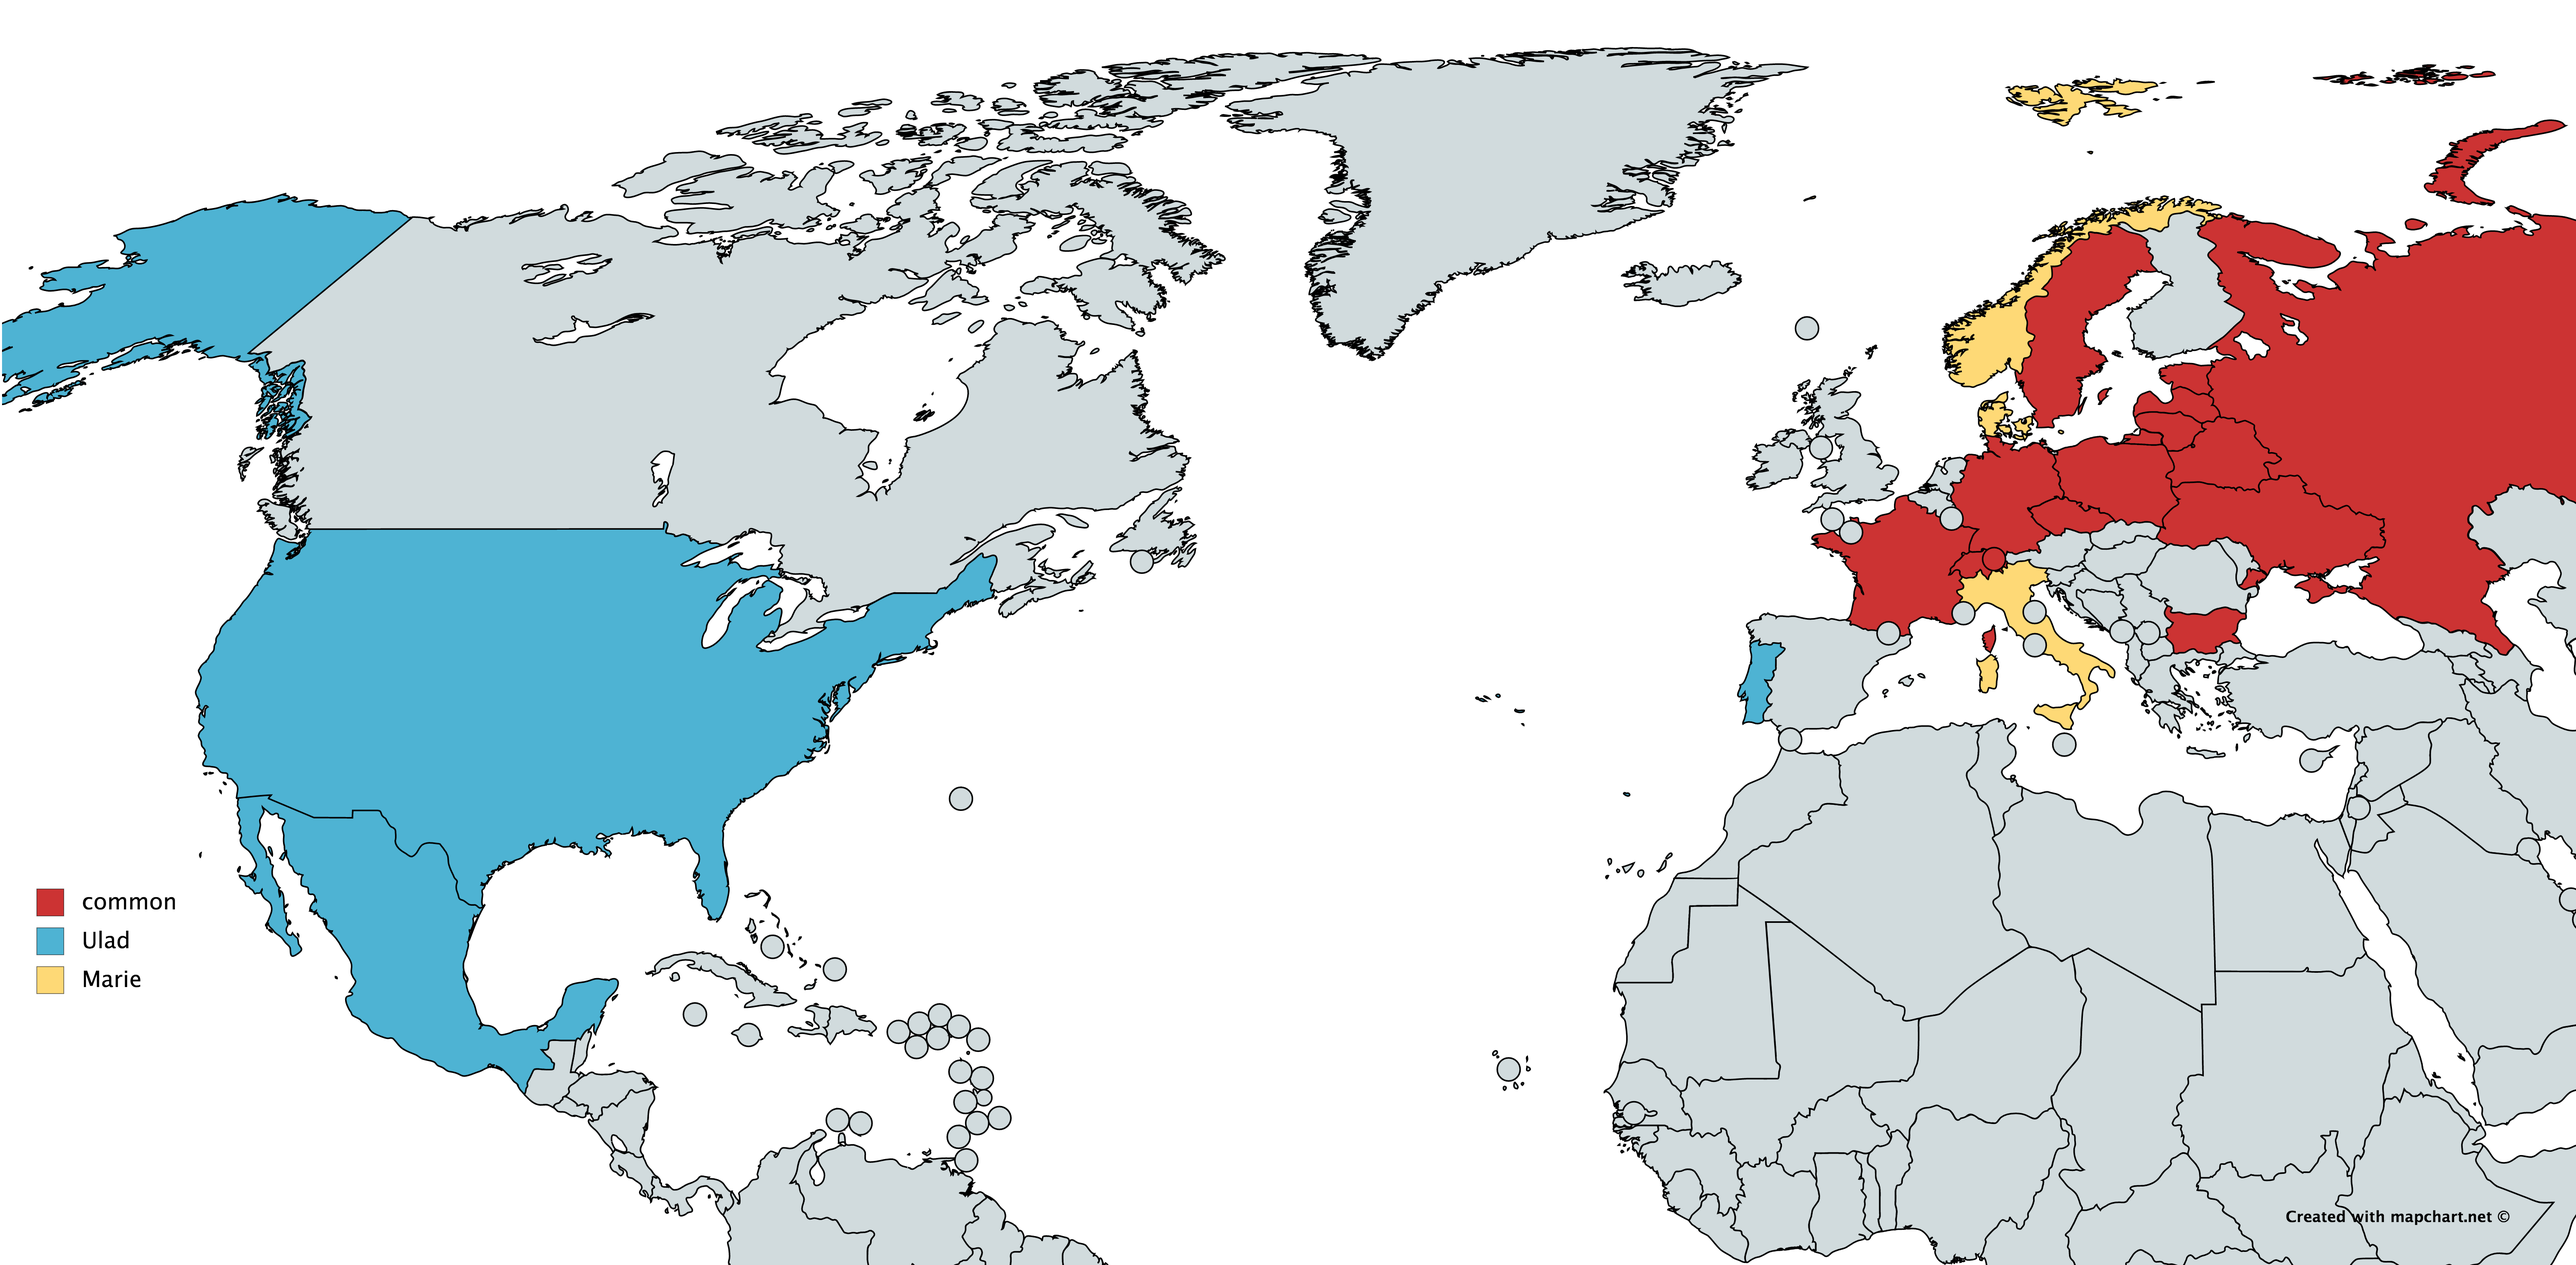
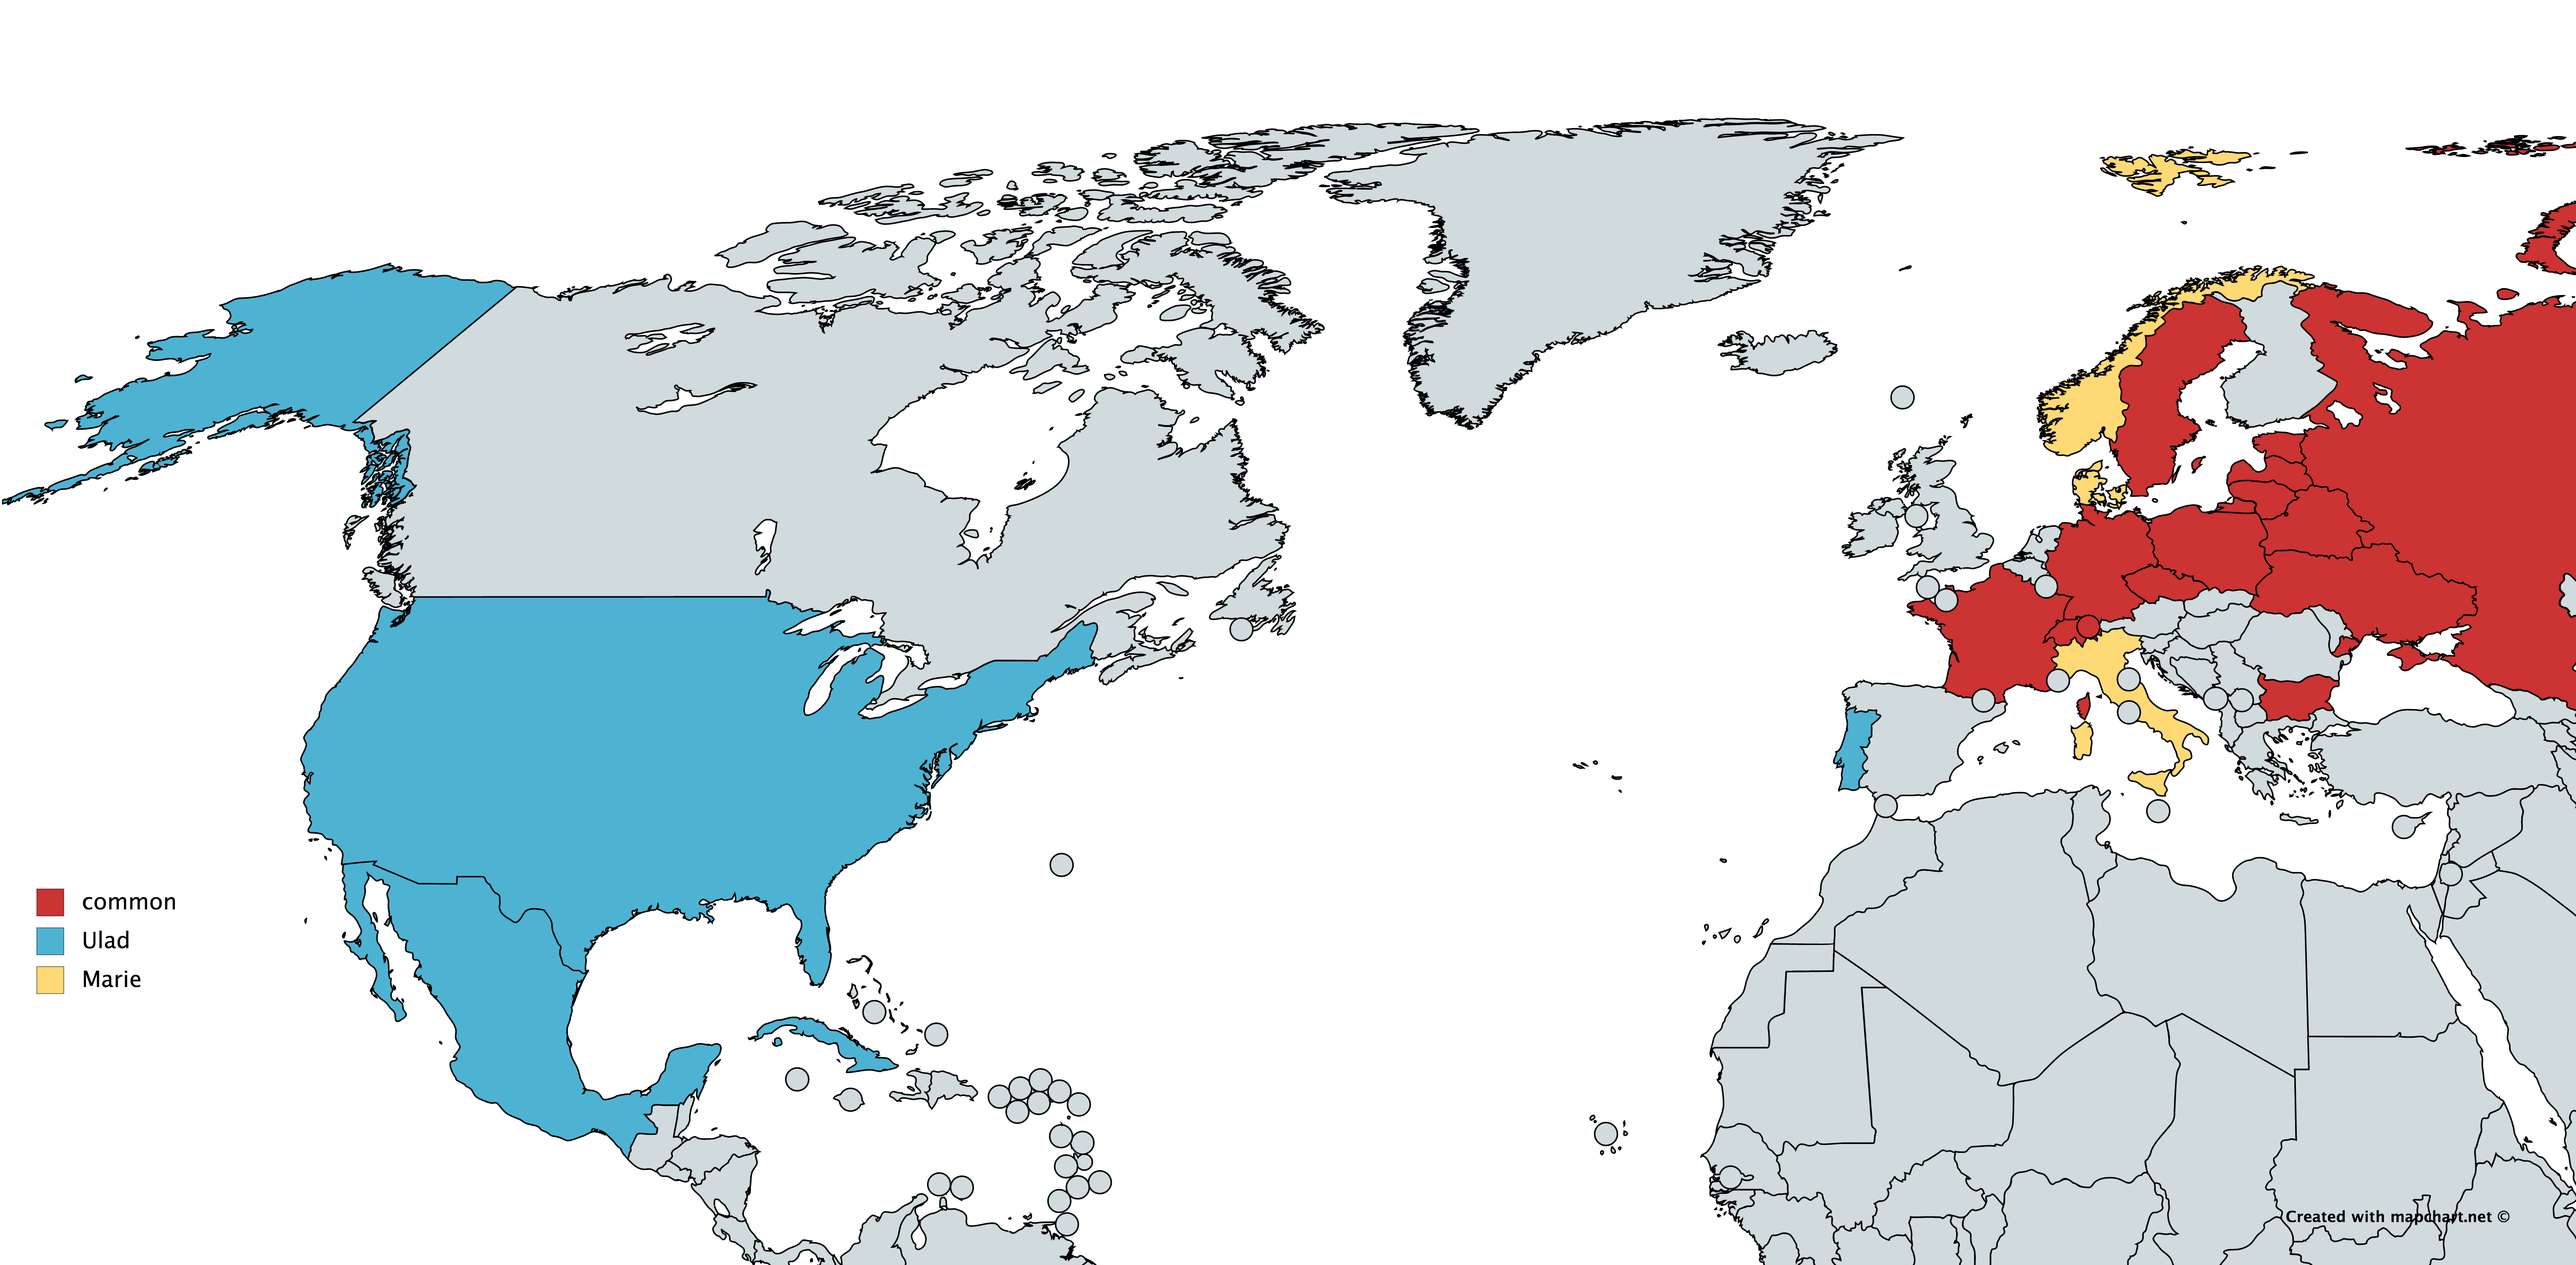
Cuba update

diff --git a/index.html b/index.html
@@ -17,7 +17,7 @@
 	<br>
 	<div class="names">Marie vs. Ulad</div>
 	<br>
-	<div class="numbers">18 vs. 19</div>
+	<div class="numbers">18 vs. 20</div>
 	<br>
 	<div class="countries">
 		<br>
@@ -44,12 +44,14 @@
 			Нарвегія <img class="flag" src="flags-iso/NO.png"><br>
 			<br>
 			<br>
+			<br>
 		</div>
 		<div class="countries ulad-countries">
 			Велікабрытанія <img class="flag" src="flags-iso/GB.png"><br>
 			Партугалія <img class="flag" src="flags-iso/PT.png"><br>
 			ЗША <img class="flag" src="flags-iso/US.png"> (CA,WA)<br>
 			Мексіка <img class="flag" src="flags-iso/MX.png"><br>
+			Куба <img class="flag" src="flags-iso/CU.png"><br>
 			<br>
 		</div>
 	</div>
